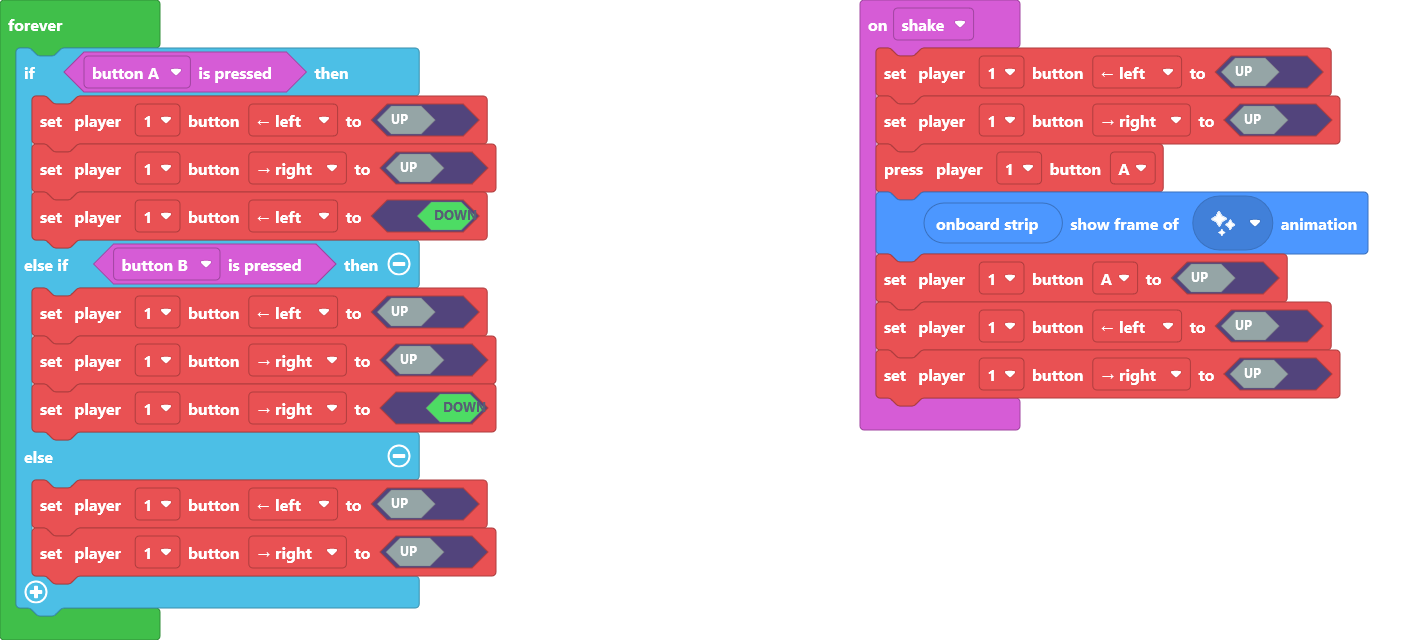
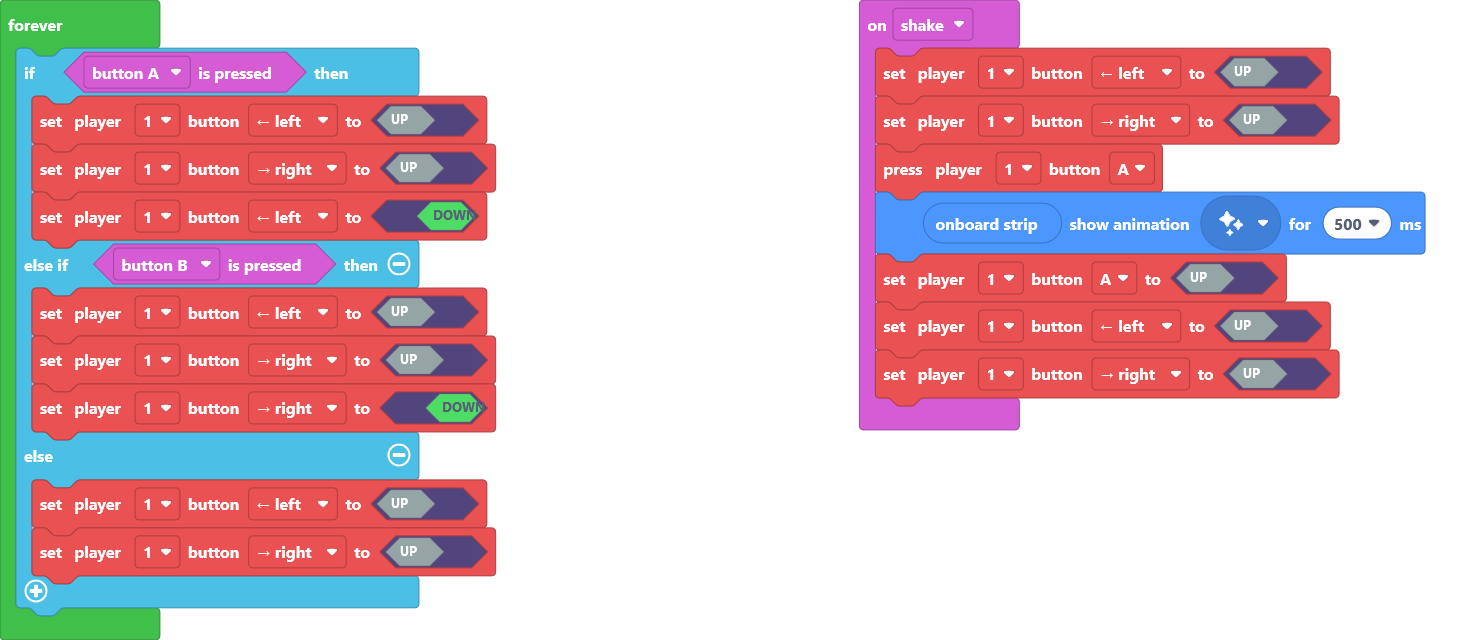
Update main.blocks, main.ts

diff --git a/main.ts b/main.ts
@@ -2,7 +2,7 @@ input.onGesture(Gesture.Shake, function () {
     makerController.player1.setButton(ArcadeButton.Left, false)
     makerController.player1.setButton(ArcadeButton.Right, false)
     makerController.player1.press(ArcadeButton.A)
-    light.onboardStrip().showAnimationFrame(light.sparkleAnimation)
+    light.onboardStrip().showAnimation(light.sparkleAnimation, 500)
     makerController.player1.setButton(ArcadeButton.A, false)
     makerController.player1.setButton(ArcadeButton.Left, false)
     makerController.player1.setButton(ArcadeButton.Right, false)
